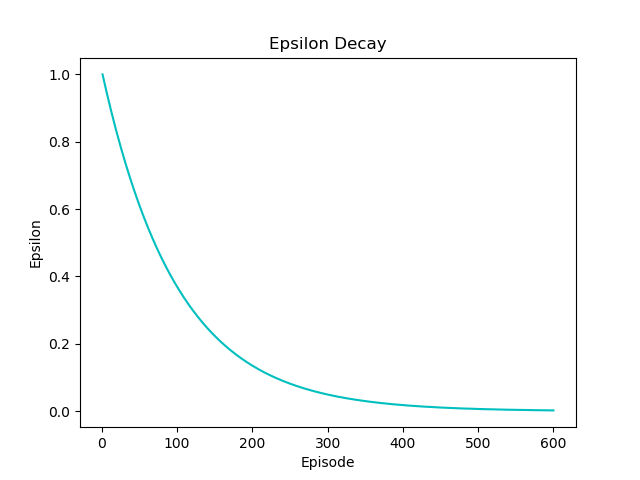
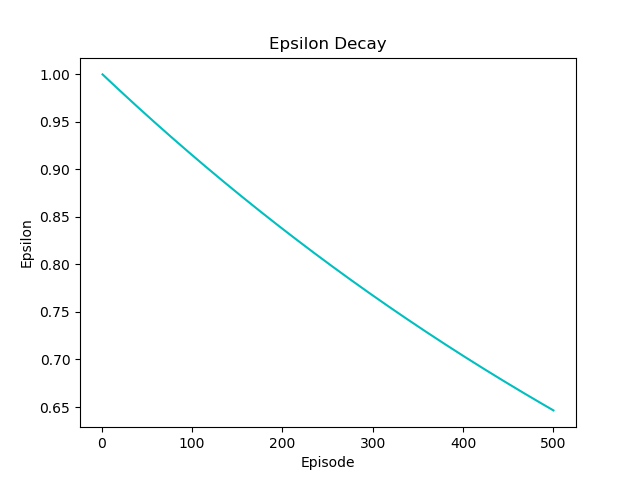
finishing touches to ql_cartpole

diff --git a/ql_cartpole/train.py b/ql_cartpole/train.py
@@ -14,33 +14,32 @@ EPSILON = 1
 MIN_EPSILON = 0.1
 EPSILON_DECAY = 0.001
 
-NUM_EPISODES = 2000
+NUM_EPISODES = 500
 MAX_STEPS = 200
 
 env = Env('CartPole-v0')
 agent = Agent(
         eps=EPSILON,gamma=GAMMA,alpha=ALPHA,num_actions=env.num_actions
         )
-rewards = deque()
+rewards = []
 max_reward = 0
 epsilons = deque()
 
 print("training")
 
-for episode in range(400):
+for episode in range(NUM_EPISODES):
     env.reset()
     episode_reward = 0
 
     if episode % 100 == 99:
-        avg_reward = sum(rewards) / 100
+        avg_reward = sum(rewards[(episode - 98) : episode]) / 99
         print("EPISODE {}\naverage reward: {}".format(episode, avg_reward))
         print("current max reward: {}".format(max_reward))
         print("length of table: {}\nepsilon value: {}\n".format(len(agent.q_table,), agent.eps))
-        rewards.clear()
 
     agent.update_epsilon_complicated(episode)
-    epsilons.append(agent.eps)
     # agent.update_epsilon_simple()
+    epsilons.append(agent.eps)
 
     for step in range(MAX_STEPS):
         curr_state = env.state
@@ -59,33 +58,6 @@ for episode in range(400):
         max_reward = episode_reward
 
 utils.plot_epsilon(epsilons)
-
-print("testing")
-rewards.clear()
-max_reward = 0
-agent.eps = 0
-
-for episode in range(100):
-    env.reset()
-    episode_reward = 0
-
-    for step in range(MAX_STEPS):
-        curr_state = env.state
-        action = agent.select_action(curr_state)
-        new_state, reward, _, _ = env.play_action(action)
-        episode_reward += reward
-
-        if env.done:
-            break
-
-    rewards.append(episode_reward)
-    if episode_reward > max_reward:
-        max_reward = episode_reward
-
-print("max reward:", max_reward)
-print("average reward:", sum(rewards) / 100)
-
+utils.plot_training(rewards)
 utils.save_q_table(agent.q_table)
-utils.plot_testing(rewards)
-
 env.close()

diff --git a/ql_cartpole/utils.py b/ql_cartpole/utils.py
@@ -1,6 +1,7 @@
 import matplotlib.pyplot as plt
-import json
+import pickle
 import random
+import math
 from collections import deque
 
 x = [1,2,3,8]
@@ -24,7 +25,8 @@ def plot_training(rewards, moving_avg_period=100):
         avg = sum(avg_queue) / len(avg_queue)
         avg_rewards.append(avg)
         avg_queue.popleft()
-    num_2 = plt.plot(episodes, avg_rewards, '--', label="100 Episode Moving Average")
+    avg_rewards.append(avg_rewards[-1])
+    num_2 = plt.plot(episodes, avg_rewards, 'm', label="100 Episode Moving Average")
 
     plt.savefig("res/training.png", bbox_inches="tight")
     plt.legend()
@@ -57,9 +59,8 @@ def plot_epsilon(epsilons):
     plt.show()
 
 def save_q_table(q_table):
-    q_table_file = open("res/q_table.json", "w")
-    json.dump(q_table, q_table_file)
-    q_table_file.close()
+    with open('res/q_table.pickle', 'wb') as handle:
+        pickle.dump(q_table, handle, protocol=pickle.HIGHEST_PROTOCOL)
 
 def dummy(rewards):
     plt.figure(5)
@@ -77,6 +78,3 @@ def dummy(rewards):
     plt.savefig("res/dummy.png", bbox_inches='tight')
     plt.legend()
     plt.show()
-
-rewards = [random.random() for i in range(100)]
-plot_testing(rewards)

diff --git a/ql_cartpole/test.py b/ql_cartpole/test.py
@@ -1,0 +1,40 @@
+from agent import Agent
+from env import Env
+import utils
+
+import json
+import pickle
+
+agent = Agent(eps=0)
+env = Env()
+
+with open('res/q_table.pickle', 'rb') as handle:
+    agent.q_table = pickle.load(handle)
+
+rewards = []
+max_reward = 0
+
+print('testing')
+
+for episode in range(100):
+    env.reset()
+    episode_reward = 0
+
+    for step in range(200):
+        curr_state = env.state
+        action = agent.select_action(curr_state)
+        new_state, reward, _, _ = env.play_action(action)
+        episode_reward += reward
+
+        if env.done:
+            break
+
+    rewards.append(episode_reward)
+    if episode_reward > max_reward:
+        max_reward = episode_reward
+
+print("max reward:", max_reward)
+print("average reward:", sum(rewards) / 100)
+
+utils.plot_testing(rewards)
+env.close()

diff --git a/ql_cartpole/agent.py b/ql_cartpole/agent.py
@@ -5,7 +5,7 @@ import numpy as np
 
 class Agent():
     
-    def __init__(self, eps, gamma, alpha, num_actions):
+    def __init__(self, eps=1, gamma=0.9, alpha=0.1, num_actions=2):
         self.eps = eps
         self.eps_min = 0.1
         self.eps_max = 1
